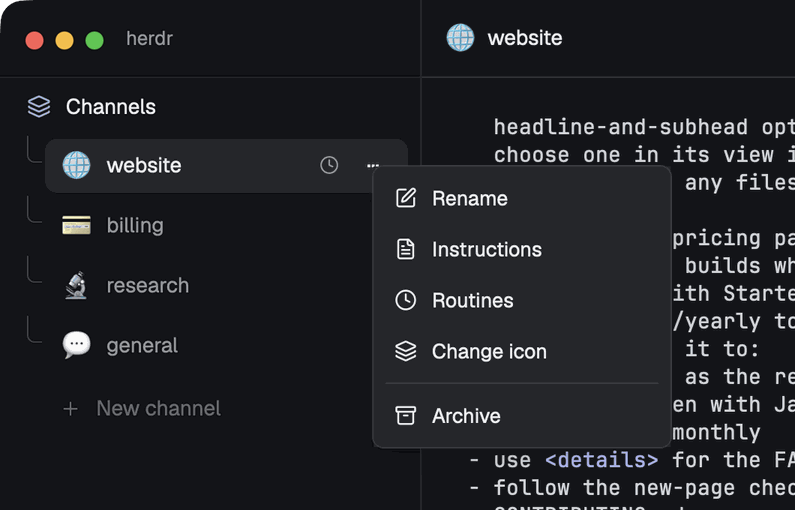
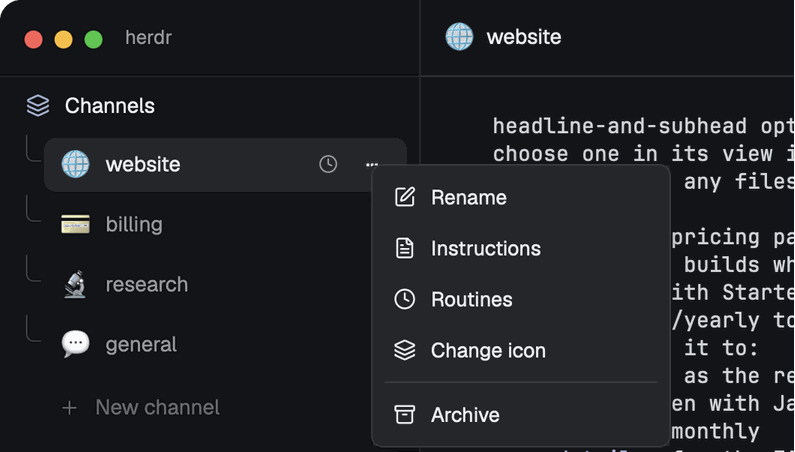
Spaces in the channels sidebar: Herdr's own spaces without leaving the channels window
Under the channels, "Spaces" lists Herdr's spaces (all but the chats' "channels" space, on any machine),
grouped by machine when some are elsewhere, with each space's agent status. Clicking one shows it in the
main area; the bar then shows its tabs (select, close, add) and Herdr's keys work as usual. The tasks panel
folds away while a space is shown and comes back with the channel. The sidebar follows Herdr: selecting a
space with Herdr's keys selects it here instead of being pulled back to the chat, and selecting the chats'
space goes back to the channel. Split tabs get card frames, as in Herdr's own layout; a lone chat stays bare.

Claude-Session: https://claude.ai/code/session_01Nb4n9WKvee5dZ7z9oTqb9K

diff --git a/mods/channels/main.js b/mods/channels/main.js
@@ -4,7 +4,10 @@
 // - the sidebar (no props): the channels, each with an icon and an L-shaped connector, a "…"
 //   menu on hover and "New channel" at the bottom. It also reads the `channels` store on this
 //   machine on a timer and shares the result, so the other copies never poll.
-// - the bar ({ bar: true }): what the main area is showing, and the button for the tasks panel.
+//   Under the channels, "Spaces": Herdr's own spaces (all but the chats' space), by machine. Clicking one shows it
+//   in the main area, with Herdr's keys for tabs and splits; the tasks panel folds away until a channel is picked.
+// - the bar ({ bar: true }): what the main area is showing (a channel, or a space and its tabs), and the button
+//   for the tasks panel.
 // - the panel ({ panel: true }): "Tasks in #channel". A task is one Claude Code session; clicking
 //   one shows it live in the panel. + starts a fresh session in the projects folder.
 // - the menu ({ menu: channel }) and the dialogs ({ dialog: "new" | "rename" | "instructions" |
@@ -24,6 +27,7 @@ import { EMOJI, GROUPS } from "./emoji.js";
 import CONFIG from "./config.js";
 import { chatAlive, afterEnd, lastLine } from "./chats.js";
 import { remember, restore, keyOf } from "./panels.js";
+import { groups as spaceGroups, follow } from "./spaces.js";
 import { exec, hc, readTextFile, appHome, spaces, panes, terminals, layout, theme, run, nextCommand, home, props, shared, setShared, openOverlay, closeOverlay, window } from "herdr";
 
 // The settings, from config.js (install.mjs writes it). MOD and LAYOUT are this mod's folder and
@@ -203,6 +207,39 @@ function herdrMachine(task) {
   return task.machine === localName() ? null : undefined;
 }
 
+// Herdr's own spaces in the sidebar (spaces.js). SPACE is { space, seen, quiet, folded }: the selected Herdr space
+// (null while a channel is), the space Herdr showed at the sidebar's last look, until when a choice made here
+// stands while Herdr catches up, and whether selecting a space folded the tasks panel away (so leaving it brings
+// the panel back).
+const SPACE = "channels.space";
+const QUIET_MS = 1500;
+const inSpace = () => Boolean(shared(SPACE)?.space);
+const selectedSpace = () => { const id = shared(SPACE)?.space; return id ? spaces().find((s) => s.id === id) ?? null : null; };
+// The tasks panel folds away while a space is shown, and comes back with the channel if it was open.
+function foldPanel(entering) {
+  const s = shared(SPACE) ?? {};
+  const panel = find(layout(), "panel");
+  if (!panel) return;
+  if (entering && !s.folded && !panel.hidden) { setShared(SPACE, { ...s, folded: true }); run("layout.hide", { id: "panel" }); }
+  else if (!entering && s.folded) { setShared(SPACE, { ...s, folded: false }); run("layout.show", { id: "panel" }); }
+}
+// A click here: a space (its id), or null for the selected channel. Herdr shows the space at once.
+function selectSpace(id) {
+  const was = shared(SPACE) ?? {};
+  setShared(SPACE, { ...was, space: id, quiet: Date.now() + QUIET_MS });
+  if (Boolean(id) !== Boolean(was.space)) foldPanel(Boolean(id));
+  if (id) run("space.select", { id });
+  syncMain();
+}
+// The sidebar's look at what Herdr shows (see follow in spaces.js).
+function followSpaces() {
+  const was = shared(SPACE) ?? {};
+  const next = follow(was, spaces(), HOLD, Date.now());
+  if (next.space === (was.space ?? null) && next.seen === (was.seen ?? null)) return;
+  setShared(SPACE, { ...was, ...next });
+  if (Boolean(next.space) !== Boolean(was.space)) { foldPanel(Boolean(next.space)); syncMain(); }
+}
+
 const shortId = (task) => task.job ?? task.session_id.split("-")[0];
 const holdSpace = (machine) => spaces().find((p) => (p.machine ?? null) === machine && p.name === HOLD) ?? null;
 const tabOf = (space, task) => space?.tabs.find((t) => t.name === shortId(task) || t.name.startsWith(`${shortId(task)} `)) ?? null;
@@ -355,18 +392,21 @@ function setDown(c, value) {
 // chat. The main block's own content is kept aside meanwhile and put back after. The sidebar's
 // timer calls this every second too, so the layout always ends up matching.
 const MAIN_SAVED = "channels.main";
+// How the main area frames a tab's panes, as layouts/channels.json says: cards, drawn only when a tab is split (a
+// space's terminals side by side), so a chat alone shows bare.
+const MAIN_PANE = { gap: 6, radius: 6, border: { width: 1, color: "border" }, focus: { width: 1, color: "accent" } };
 const isPlaceholder = (content) => content?.mod === MOD && content?.props?.down === true;
 function syncMain() {
   if (shared("layout") !== LAYOUT) return;
   const tree = layout();
   const main = find(tree, "main");
   if (!main) return;
-  const want = Boolean(downOf(current()));
+  const want = !inSpace() && Boolean(downOf(current())); // a Herdr space shown from the sidebar is never down
   if (want === isPlaceholder(main.content)) return;
   const next = JSON.parse(JSON.stringify(tree));
   const node = find(next, "main");
   if (want) { setShared(MAIN_SAVED, node.content); node.content = { mod: MOD, props: { down: true } }; }
-  else node.content = shared(MAIN_SAVED) ?? { tab: "active", pane: { gap: 0 } };
+  else node.content = shared(MAIN_SAVED) ?? { tab: "active", pane: MAIN_PANE };
   run("layout.set", { layout: next });
 }
 const paneOf = (address) => (address ? panes().find((p) => p.terminal === address) ?? null : null);
@@ -435,6 +475,7 @@ const findingNow = (id) => finding.has(id) && Date.now() - finding.get(id) < 600
 const RETRY = "channels.retry"; // { channel, at }
 function openChannel(c, { auto = false } = {}) {
   const leaving = current()?.name !== c.name;
+  if (inSpace()) selectSpace(null); // back from a Herdr space to the channel
   setShared(CURRENT, c.name);
   if (leaving) followPanel(c);
   const was = chatAddress(c);
@@ -621,6 +662,7 @@ export default class Channels extends View {
     cx.timer.every(40, (cx) => {
       if (this.settle) { this.settle = false; cx.notify(); }
       if (placing.length) settlePlacing();
+      if (shared("layout") === LAYOUT) followSpaces();
       const retry = shared(RETRY);
       if (retry && retry.at !== this.retryAt) {
         this.retryAt = retry.at;
@@ -635,12 +677,13 @@ export default class Channels extends View {
     cx.timer.every(1000, (cx) => {
       const now = shared(TICK) ?? 0;
       if (now !== this.tick) { this.tick = now; this.refresh(cx); }
-      // Put the selected channel's chat back if the main area is showing anything else, as it
-      // does after a visit to another layout, or if the chat ended (/exit): it starts again. Not
-      // more than once every few seconds: a chat's tab takes a moment to appear the first time.
+      // Put the selected channel's chat back if the main area is showing anything else, or if the
+      // chat ended (/exit): it starts again. Not while a Herdr space is selected in the sidebar
+      // (Herdr showing another space selects it there: see followSpaces). Not more than once every
+      // few seconds: a chat's tab takes a moment to appear the first time.
       const here = current();
       syncMain();
-      if (here && shared("layout") === LAYOUT && !downOf(here) && !chatShown(here) && Date.now() - this.restoredAt > 4000) {
+      if (here && shared("layout") === LAYOUT && !inSpace() && !downOf(here) && !chatShown(here) && Date.now() - this.restoredAt > 4000) {
         this.restoredAt = Date.now();
         openChannel(here, { auto: true });
       }
@@ -806,7 +849,7 @@ export default class Channels extends View {
 
     const row = (c, i) => {
       const key = `c:${c.name}`;
-      const selected = here?.name === c.name;
+      const selected = here?.name === c.name && !inSpace();
       const lifted = drag?.name === c.name;
       return h_flex().id(`ch-${c.name}`).absolute().left(0).right(0).h(ROW).pl(8).pr(8).items_center()
         .top(lifted ? drag.top : slot(i) * ROW)
@@ -856,8 +899,46 @@ export default class Channels extends View {
           .on_mouse_down("left", (_e, cx) => cx.stop_propagation())
           .on_click(() => openDialog("new", null))
           .child(svg(ICON("plus")).size(14))
-          .child(div().text_size(14).child("New channel"))))
+          .child(div().text_size(14).child("New channel")))
+        .child(this.spacesList(t)))
       .child(this.footer(t, data));
+  }
+
+  // Herdr's own spaces, under the channels: everything but the chats' space, by machine (this computer first). A
+  // click shows the space in the main area; + makes one (on that machine), which Herdr shows and the list selects.
+  spacesList(t) {
+    const list = spaceGroups(spaces(), HOLD);
+    const chosen = shared(SPACE)?.space ?? null;
+    const remote = list.some((g) => g.machine !== null);
+    const add = (machine) => () => run("space.new", machine ? { machine } : { machine: "", folder: PROJECTS });
+    const row = (s) => {
+      const selected = s.id === chosen;
+      const tabs = s.tabs.filter((x) => !x.settled).length;
+      const status = s.status && s.status !== "idle" ? s.status : null;
+      return h_flex().id(`sp-${s.id}`).ml(30).mr(8).h(36).flex_none().px(10).gap(10).items_center().rounded(8).cursor_pointer()
+        .when(selected, (el) => el.bg(t.selected))
+        .hover((st) => st.bg(selected ? t.selected : t.hover))
+        .on_mouse_down("left", (_e, cx) => cx.stop_propagation())
+        .on_click(() => selectSpace(s.id))
+        // The space's most urgent agent: a filled dot while one works, is done or needs the user; a ring otherwise.
+        .child(div().w(7).h(7).flex_none().rounded(4)
+          .when(Boolean(status), (el) => el.bg(t[status] ?? t.dim))
+          .when(!status, (el) => el.border_1().border_color(t.dim)))
+        .child(div().flex_1().min_w(0).truncate().text_size(14).text_color(selected ? t.foreground : t.muted).child(s.name || "~"))
+        .when(status === "blocked", (el) => el.child(div().flex_none().text_size(12).text_color(t.blocked).child("needs you")))
+        .when(status !== "blocked" && tabs > 1, (el) => el.child(div().flex_none().text_size(12).text_color(t.dim).child(`${tabs} tabs`)));
+    };
+    const label = (g) => h_flex().id(`sp-m-${g.machine ?? "here"}`).ml(30).mr(8).pl(10).pr(0).h(26).flex_none().items_center()
+      .child(div().flex_1().text_size(11.5).text_color(t.dim).child((g.machine ?? localName() ?? "this computer").toUpperCase()))
+      .when(g.machine !== null, (el) => el.child(this.tool(`sp-new-${g.machine}`, svg(ICON("plus")).size(13), add(g.machine), t)));
+    return v_flex().flex_none().pb(8)
+      .child(h_flex().px(18).pt(18).pb(4).gap(10).items_center()
+        .child(svg(ICON("terminal")).size(16).text_color(t.accent))
+        .child(div().flex_1().text_size(14).font_medium().child("Spaces"))
+        .child(this.tool("sp-new", svg(ICON("plus")).size(14), add(null), t)))
+      .when(!list.length, (el) => el.child(div().ml(40).mr(18).py(6).text_size(12.5).text_color(t.dim)
+        .child("Shells and sessions outside the channels. + opens one.")))
+      .children(list.flatMap((g) => [...(remote ? [label(g)] : []), ...g.spaces.map(row)]));
   }
 
   // The foot of the sidebar: this machine, which holds the channels, and whether the store answers.
@@ -895,6 +976,8 @@ export default class Channels extends View {
 
   render_bar() {
     const t = theme();
+    const space = selectedSpace();
+    if (space) return this.spaceBar(space, t);
     const here = current();
     return h_flex().size_full().px(16).gap(8).items_center().bg(t.background).border_b(1).border_color(t.border).text_color(t.foreground)
       .when(Boolean(here), (el) => el
@@ -903,6 +986,36 @@ export default class Channels extends View {
           .on_mouse_down("left", (_e, cx) => cx.stop_propagation()).on_click(() => openChannel(here)).child(here.name)))
       .child(div().flex_1())
       .when(Boolean(here) && Boolean(localName()), (el) => el.child(this.where(localName(), t)))
+      .child(this.tool("bar-tasks", svg(ICON("panel-right")).size(16), () => run("layout.toggle", { id: "panel" }), t)
+        .when(!find(layout(), "panel")?.hidden, (el) => el.bg(t.selected).text_color(t.foreground)));
+  }
+
+  // The bar while a Herdr space is shown: its name and its tabs (a click shows one, × closes it, + adds one), the
+  // machine it is on and the tasks panel's button. Herdr's own keys (⌘T, ⌘W, ⌘D, ...) work on it as anywhere.
+  spaceBar(space, t) {
+    const tabs = space.tabs.filter((x) => !x.settled || x.active);
+    const pill = (tab) => {
+      const key = `tab:${tab.id}`;
+      const status = tab.status && tab.status !== "idle" ? tab.status : null;
+      return h_flex().id(`bar-tab-${tab.id}`).h(28).pl(12).pr(this.hover === key ? 4 : 12).gap(6).flex_none().items_center().rounded(7)
+        .text_size(13).cursor_pointer()
+        .text_color(tab.active ? t.foreground : t.muted)
+        .when(tab.active, (el) => el.bg(t.selected))
+        .hover((st) => st.bg(tab.active ? t.selected : t.hover))
+        .on_hover(this.hovering(key))
+        .on_mouse_down("left", (_e, cx) => cx.stop_propagation())
+        .on_click(() => run("tab.select", { id: tab.id }))
+        .when(Boolean(status), (el) => el.child(div().w(6).h(6).rounded(3).bg(t[status] ?? t.dim)))
+        .child(div().max_w(180).truncate().child(tab.named ? tab.name : `${tab.index}`))
+        .when(this.hover === key, (el) => el.child(this.tool(`bar-tab-x-${tab.id}`, svg(ICON("x")).size(12),
+          () => run("tab.close", { id: tab.id }), t).w(20).h(20)));
+    };
+    return h_flex().size_full().px(16).gap(6).items_center().bg(t.background).border_b(1).border_color(t.border).text_color(t.foreground)
+      .child(svg(ICON("terminal")).size(16).text_color(t.muted))
+      .child(div().mr(8).max_w(220).truncate().text_size(14).font_medium().child(space.name || "~"))
+      .child(h_flex().id("bar-tabs").flex_1().min_w(0).gap(2).items_center().overflow_x_scroll().children(tabs.map(pill))
+        .child(this.tool("bar-tab-new", svg(ICON("plus")).size(14), () => run("tab.new", { space: space.id }), t)))
+      .child(this.where(space.machine ?? localName(), t))
       .child(this.tool("bar-tasks", svg(ICON("panel-right")).size(16), () => run("layout.toggle", { id: "panel" }), t)
         .when(!find(layout(), "panel")?.hidden, (el) => el.bg(t.selected).text_color(t.foreground)));
   }

diff --git a/mods/channels/spaces.js b/mods/channels/spaces.js
@@ -1,0 +1,41 @@
+// Herdr's own spaces, in the channels sidebar: everything that isn't a channel's chat (a shell, a plain Claude Code
+// session, a space on another machine) is reachable without leaving the channels window. Plain functions, so the
+// tests can run them without herdr.
+//
+// The chats live in spaces named "channels" (one per machine that holds chats: this computer's, or the backend's
+// when the store is on another machine); those are the channels' own and aren't listed. Every other space is, grouped
+// by machine, this computer first, then the others by name, as Herdr's own sidebar orders them.
+
+export const isHold = (space, hold) => space?.name === hold;
+
+// [{ machine: null | name, spaces: [...] }], this computer first; a machine with no other spaces isn't listed.
+export function groups(spaces, hold) {
+  const by = new Map();
+  for (const s of spaces ?? []) {
+    if (isHold(s, hold)) continue;
+    const m = s.machine ?? null;
+    if (!by.has(m)) by.set(m, []);
+    by.get(m).push(s);
+  }
+  return [...by.entries()]
+    .sort(([a], [b]) => (a === null ? -1 : b === null ? 1 : `${a}`.localeCompare(`${b}`)))
+    .map(([machine, list]) => ({ machine, spaces: list }));
+}
+
+// Which Herdr space the sidebar has selected (its id), or null while a channel is: decided on each tick from what
+// Herdr shows. `state` is { space, seen, quiet }: the selected space, the shown space's id at the last tick, and until
+// when (ms) a choice made here stands while Herdr catches up. Returns the next state.
+//
+// - The sidebar follows Herdr: when the shown space changes to one that isn't a chats space (⌃1-9, Herdr's space keys,
+//   a new space), that space is selected; when it changes to a chats space, the channel is again.
+// - A space that's gone (its last tab closed) gives the channel back, unless Herdr moved on to another space.
+// - For a moment after a click here (`quiet`), Herdr's shown space may still be the old one: it isn't followed then.
+export function follow(state, spaces, hold, now) {
+  const shown = (spaces ?? []).find((s) => s.active) ?? null;
+  const id = shown?.id ?? null;
+  let space = state?.space ?? null;
+  const quiet = (state?.quiet ?? 0) > now;
+  if (!quiet && id !== (state?.seen ?? null) && shown) space = isHold(shown, hold) ? null : shown.id;
+  if (space && !(spaces ?? []).some((s) => s.id === space)) space = null;
+  return { space, seen: quiet ? state?.seen ?? null : id, quiet: state?.quiet ?? 0 };
+}

diff --git a/README.md b/README.md
@@ -14,13 +14,13 @@ Everything is local: the channel store is a folder on disk, tasks run under your
 the herdr mod runs every command on the same machine. No server is involved, unless you turn on
 [cloud tasks](#cloud-tasks) (off by default), which run tasks at claude.ai/code.
 
-![The channels layout in Herdr: the channel list on the left, the #website channel's Claude Code chat in the middle, and the tasks panel on the right with one task that needs input, one working and one ready for review](preview.png)
+![The channels layout in Herdr: the channel list on the left with a Herdr space, acme-website, under Spaces below it; the #website channel's Claude Code chat in the middle, summing up its tasks above two task cards; and the tasks panel on the right with one task that needs input, one working and one ready for review](preview.png)
 
 ## Contents
 
 | Path | Purpose |
 |---|---|
-| `mods/channels/` | The herdr mod: sidebar, header bar, tasks panel and dialogs |
+| `mods/channels/` | The herdr mod: sidebar (channels, and Herdr's own spaces), header bar, tasks panel and dialogs |
 | `mods/claude/` | The Claude Code mod each channel's chat loads: the [task cards](#task-cards) above its prompt |
 | `layouts/channels.json` | The herdr layout that arranges the mod |
 | `bin/channels.mjs` | The `channels` command (a Node script, no dependencies) |
@@ -176,6 +176,21 @@ same session, with its history.
   <img src="docs/task-view.png" width="420" alt="A task opened live in the tasks panel: its header has the task's name, Needs input, and Rename, Resolve and Close buttons; below, the task's Claude Code session asks which homepage headline to use, with three options to choose from">
 
   <img src="docs/task-menu.png" width="420" alt="The tasks panel with a task's menu open over the Watch the release build row, offering Rename and Resolve">
+
+- **Spaces.** Everything that isn't a channel is under **Spaces**, below the channels: Herdr's own
+  spaces, for a shell, a plain Claude Code session or anything else Herdr runs, without leaving the
+  channels window. They are grouped by machine when some are on another machine. A dot shows a
+  space's agents (working, done, or needing you). Click a space to show it in the main area. The bar
+  above then shows its tabs: click one to show it, **×** to close it, **+** to add one. Herdr's own
+  keys work there too (new tab, split, close, and the space keys). The tasks panel folds away while
+  a space is shown and comes back when you select a channel again. **+** next to Spaces opens a new
+  space in the projects folder. Selecting a space with Herdr's keys selects it in the sidebar too,
+  and selecting the `channels` space (where the chats live) goes back to the channel. The spaces are
+  ordinary Herdr spaces: they keep running when you switch away, and Herdr's own layout
+  (`layout.switch`) shows them as well. A Claude Code session started there isn't a channel task;
+  `channels file <channel> <session>` files it into a channel.
+
+  <img src="docs/spaces.png" width="720" alt="The channels window with a Herdr space selected under Spaces in the sidebar: the main area shows the acme-website space's claude tab, a Claude Code session beside a shell showing the repository's git log, and the bar above lists the space's tabs, claude and dev server, with a plus to add one">
 
 ### Task events
 

diff --git a/THIRD_PARTY_NOTICES.md b/THIRD_PARTY_NOTICES.md
@@ -17,7 +17,7 @@ This one is adapted from Lucide's `circle-alert` icon:
 
 Lucide's `check`, `chevron-left`, `plus` and `x` come from the Feather project, so the Feather MIT
 notice inside Lucide's license below covers them too. The other icons (`icons/monitor.svg`,
-`icons/server.svg`, `icons/spinner.svg`) were drawn for this repo and are under `LICENSE`.
+`icons/server.svg`, `icons/spinner.svg`, `icons/terminal.svg`) were drawn for this repo and are under `LICENSE`.
 
 Lucide's license, as published in its repository:
 
